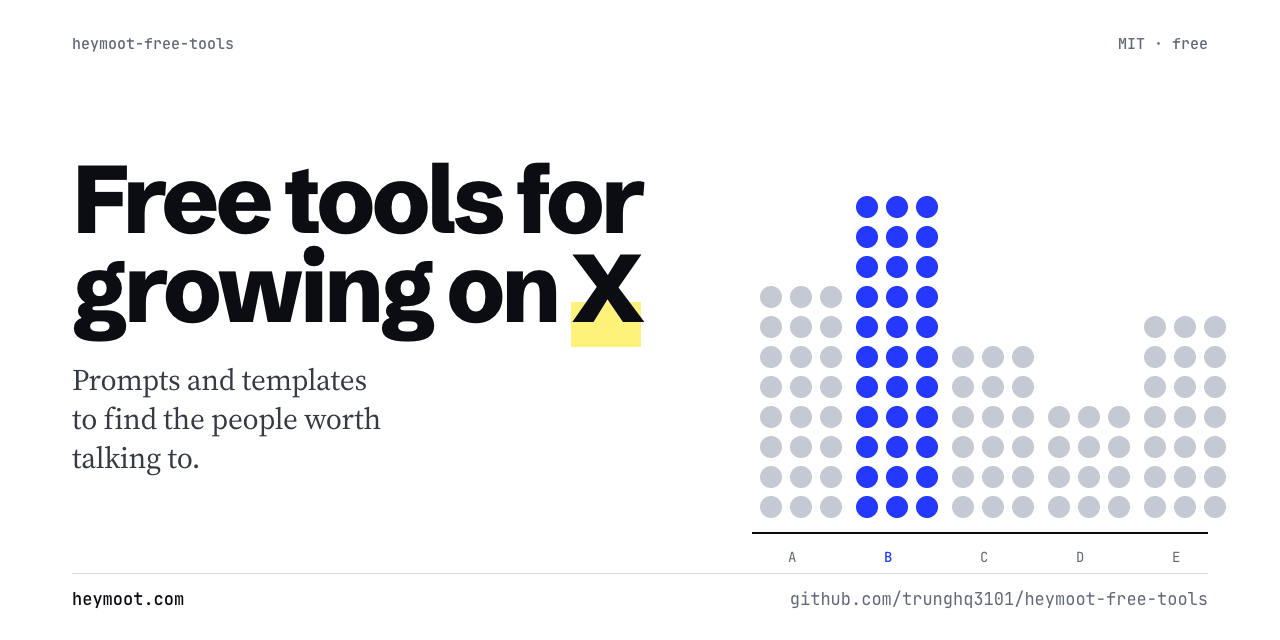
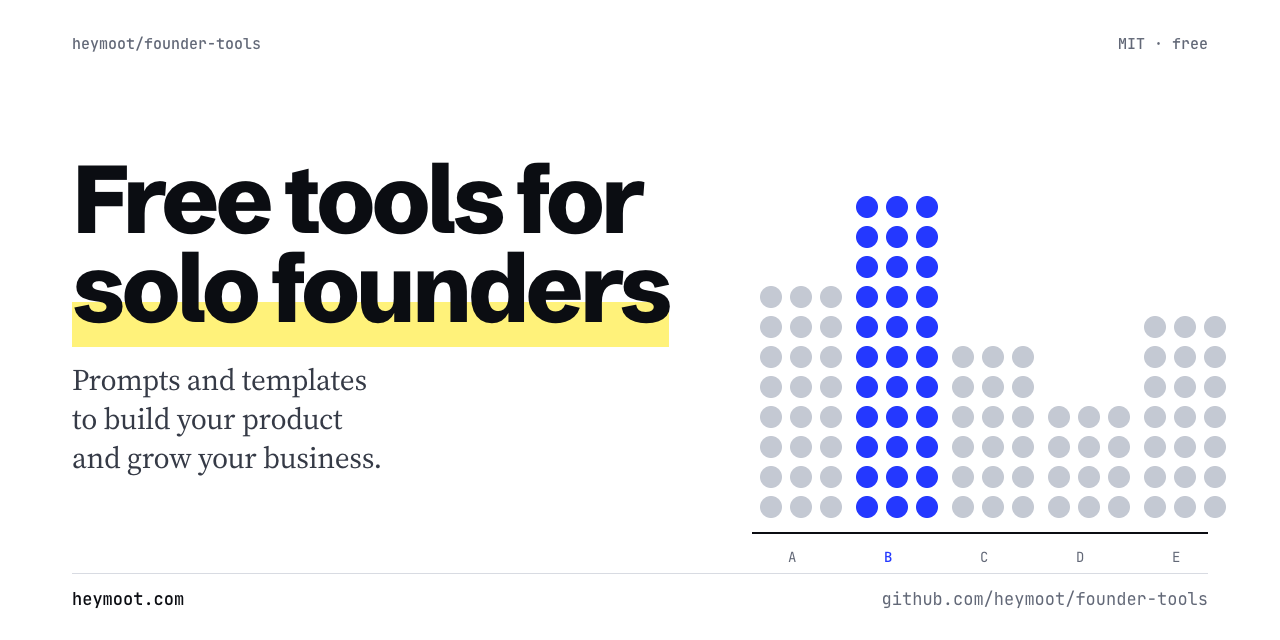
Rename to heymoot/founder-tools: links, README for solo founders, new thumbnail

diff --git a/assets/social-preview.html b/assets/social-preview.html
@@ -2,7 +2,7 @@
 <html lang="en">
 <head>
 <meta charset="UTF-8">
-<title>heymoot-free-tools social preview</title>
+<title>heymoot founder-tools social preview</title>
 <!-- Source for social-preview.png (1280x640). Screenshot this page at exactly 1280x640. -->
 <link rel="stylesheet" href="https://fonts.googleapis.com/css2?family=Schibsted+Grotesk:wght@600;800&family=Source+Serif+4:opsz,wght@8..60,400&family=JetBrains+Mono:wght@400;500&display=swap">
 <style>
@@ -27,13 +27,13 @@ p { margin: 0; font: 400 30px/1.3 "Source Serif 4", Georgia, serif; color: var(-
 </head>
 <body>
 <div class="card">
-  <div class="top"><span>heymoot-free-tools</span><span>MIT · free</span></div>
+  <div class="top"><span>heymoot/founder-tools</span><span>MIT · free</span></div>
   <div class="copy">
-    <h1>Free tools for growing on <span class="hl">X</span></h1>
-    <p>Prompts and templates to find the people worth talking to.</p>
+    <h1>Free tools for <span class="hl">solo founders</span></h1>
+    <p>Prompts and templates to build your product and grow your business.</p>
   </div>
   <div class="fig" id="fig"></div>
-  <div class="foot"><span>heymoot.com</span><span>github.com/trunghq3101/heymoot-free-tools</span></div>
+  <div class="foot"><span>heymoot.com</span><span>github.com/heymoot/founder-tools</span></div>
 </div>
 <script>
 const counts = [24, 33, 18, 12, 21], fig = document.getElementById("fig"), labels = ["A", "B", "C", "D", "E"];

diff --git a/x-prospect-research/template.html b/x-prospect-research/template.html
@@ -4,7 +4,7 @@
 <meta charset="UTF-8">
 <meta name="viewport" content="width=device-width, initial-scale=1, viewport-fit=cover">
 <title>X Prospect Research</title>
-<!-- Template from heymoot-free-tools by heymoot (https://heymoot.com). MIT licensed.
+<!-- Template from heymoot founder-tools (https://heymoot.com). MIT licensed.
      To reuse: replace only the DATA object in the <script> at the bottom. Everything else renders from it. -->
 <link rel="preconnect" href="https://fonts.googleapis.com">
 <link rel="preconnect" href="https://fonts.gstatic.com" crossorigin>
@@ -265,7 +265,7 @@ td.r, th.r { text-align: right; }
     </div>
   </section>
 
-  <p class="credit mono">Template by <a href="https://heymoot.com">heymoot</a> · <a href="https://github.com/trunghq3101/heymoot-free-tools">heymoot-free-tools</a></p>
+  <p class="credit mono">Template by <a href="https://heymoot.com">heymoot</a> · <a href="https://github.com/heymoot/founder-tools">founder-tools</a></p>
 </div>
 
 <script>

diff --git a/README.md b/README.md
@@ -1,26 +1,30 @@
-# heymoot free tools
+# heymoot founder tools
 
-![Free tools for growing on X, by heymoot.com](assets/social-preview.png)
+![Free tools for solo founders, by heymoot.com](assets/social-preview.png)
 
-Free AI prompts and templates for growing on X (Twitter) by talking to the right people. Made by [heymoot.com](https://heymoot.com).
+Free AI prompts and templates for solo founders: build your product and grow your business. Made by [heymoot.com](https://heymoot.com).
 
 ## Tools
 
-| Tool | What it does |
-|---|---|
-| [X Prospect Research](x-prospect-research/) | Finds potential customers in your competitors' engaged audience on X and turns them into an interactive report with a shortlist to check by hand. |
+### Find customers
 
-Each tool has its own folder with a prompt you paste into Grok, a template, and example output with fake data.
+| Tool | What it does | Runs in |
+|---|---|---|
+| [X Prospect Research](x-prospect-research/) | Finds potential customers in your competitors' engaged audience on X (Twitter) and turns them into an interactive report with a shortlist to check by hand. | Grok |
+
+More tools for building product and growing your business are on the way.
 
 ## How the tools work
 
-- **Runs in Grok.** Grok can search X live, so you paste the prompt there. Nothing else to set up.
-- **Templates hold the design.** Each prompt links to its template, and Grok fills in only the data, so the result looks the same every time.
+- **Paste a prompt.** Each tool is a prompt for an AI assistant. Its README says which assistant it needs and why.
+- **Templates hold the design.** Each prompt links to its template, and the AI fills in only the data, so the result looks the same every time.
 - **Open in a browser.** Each result is one HTML file. Nothing to install and no account needed.
+
+Every tool folder has a README, the prompt, the template, and example output with fake data.
 
 ## About heymoot
 
-[heymoot](https://heymoot.com) helps founders grow on X by talking to the right people every day, in their own words. These tools come from the research we do for our own growth, shared for free.
+[heymoot](https://heymoot.com) helps founders grow on X by talking to the right people every day, in their own words. These tools come from the work we do to build and grow heymoot, shared for free.
 
 ## License
 

diff --git a/x-prospect-research/prompt.md b/x-prospect-research/prompt.md
@@ -2,7 +2,7 @@
 
 Paste this into [Grok](https://grok.com). It needs Grok because Grok is the assistant that can search X live. Replace `[your website]` first.
 
-Grok fetches the page design from [`template.html`](https://raw.githubusercontent.com/trunghq3101/heymoot-free-tools/main/x-prospect-research/template.html) in this repo and fills in only the data, so the report looks the same every time. If Grok says it can't open the link, download `template.html`, attach it to the chat, and change the first line of the Output section to "Use the attached template.html as the exact template."
+Grok fetches the page design from [`template.html`](https://raw.githubusercontent.com/heymoot/founder-tools/main/x-prospect-research/template.html) in this repo and fills in only the data, so the report looks the same every time. If Grok says it can't open the link, download `template.html`, attach it to the chat, and change the first line of the Output section to "Use the attached template.html as the exact template."
 
 
 ````
@@ -36,7 +36,7 @@ Rules
 
 ## Output
 
-Fetch the template at https://raw.githubusercontent.com/trunghq3101/heymoot-free-tools/main/x-prospect-research/template.html and use it as the exact template. Return the whole file with ONLY the `DATA` object changed; keep every style, element and script as it is.
+Fetch the template at https://raw.githubusercontent.com/heymoot/founder-tools/main/x-prospect-research/template.html and use it as the exact template. Return the whole file with ONLY the `DATA` object changed; keep every style, element and script as it is.
 - Replace all example data. Don't keep any example.com links: post links are real X post URLs.
 - `sources`: the 4 competitors plus "Builders" (set `plus: true` when the count is a lower bound). `sample` = engagements for that source.
 - `uniquePeople`, `roles`, `activity`, `followerRange` from Step 2 and 3. Shares are whole numbers that add up to 100.

diff --git a/x-prospect-research/README.md b/x-prospect-research/README.md
@@ -39,4 +39,4 @@ Everything on the page renders from one `DATA` object at the bottom of `template
 
 ---
 
-Built by [heymoot](https://heymoot.com), which helps founders grow on X by talking to the right people every day, in their own words. More free tools: [heymoot-free-tools](../README.md).
+Built by [heymoot](https://heymoot.com), which helps founders grow on X by talking to the right people every day, in their own words. More free tools for founders: [heymoot/founder-tools](../README.md).
